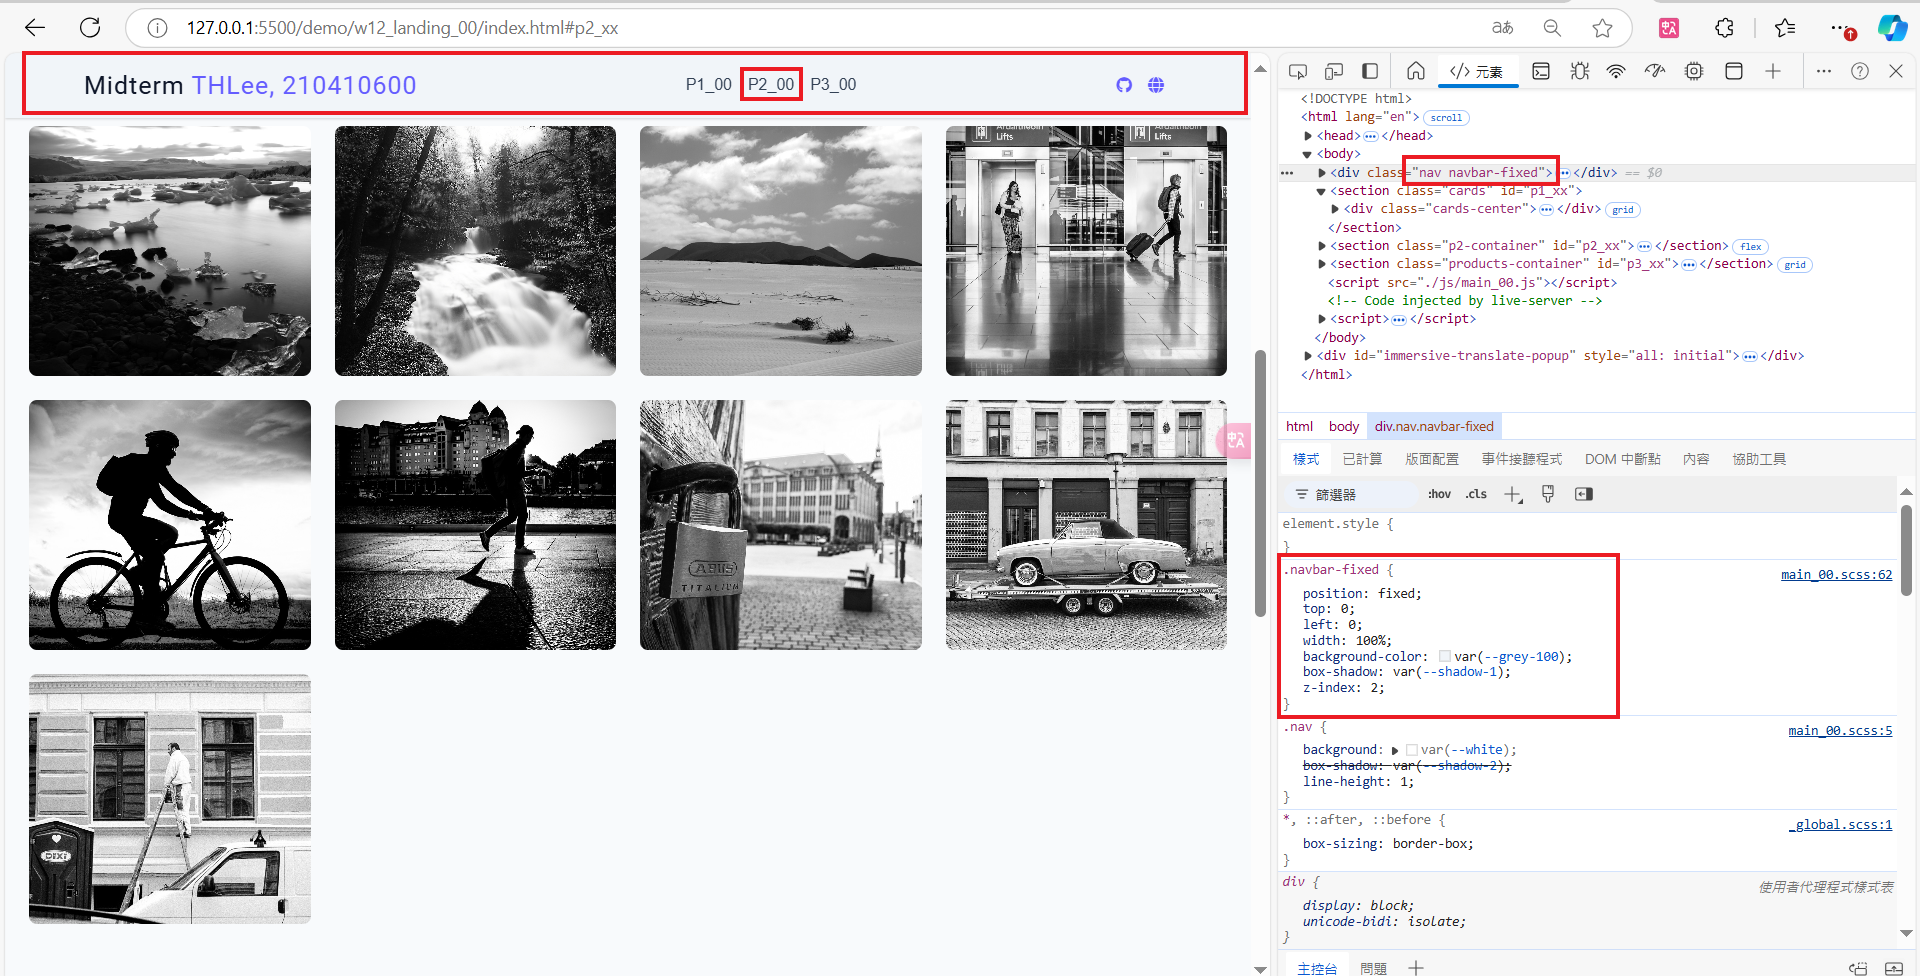
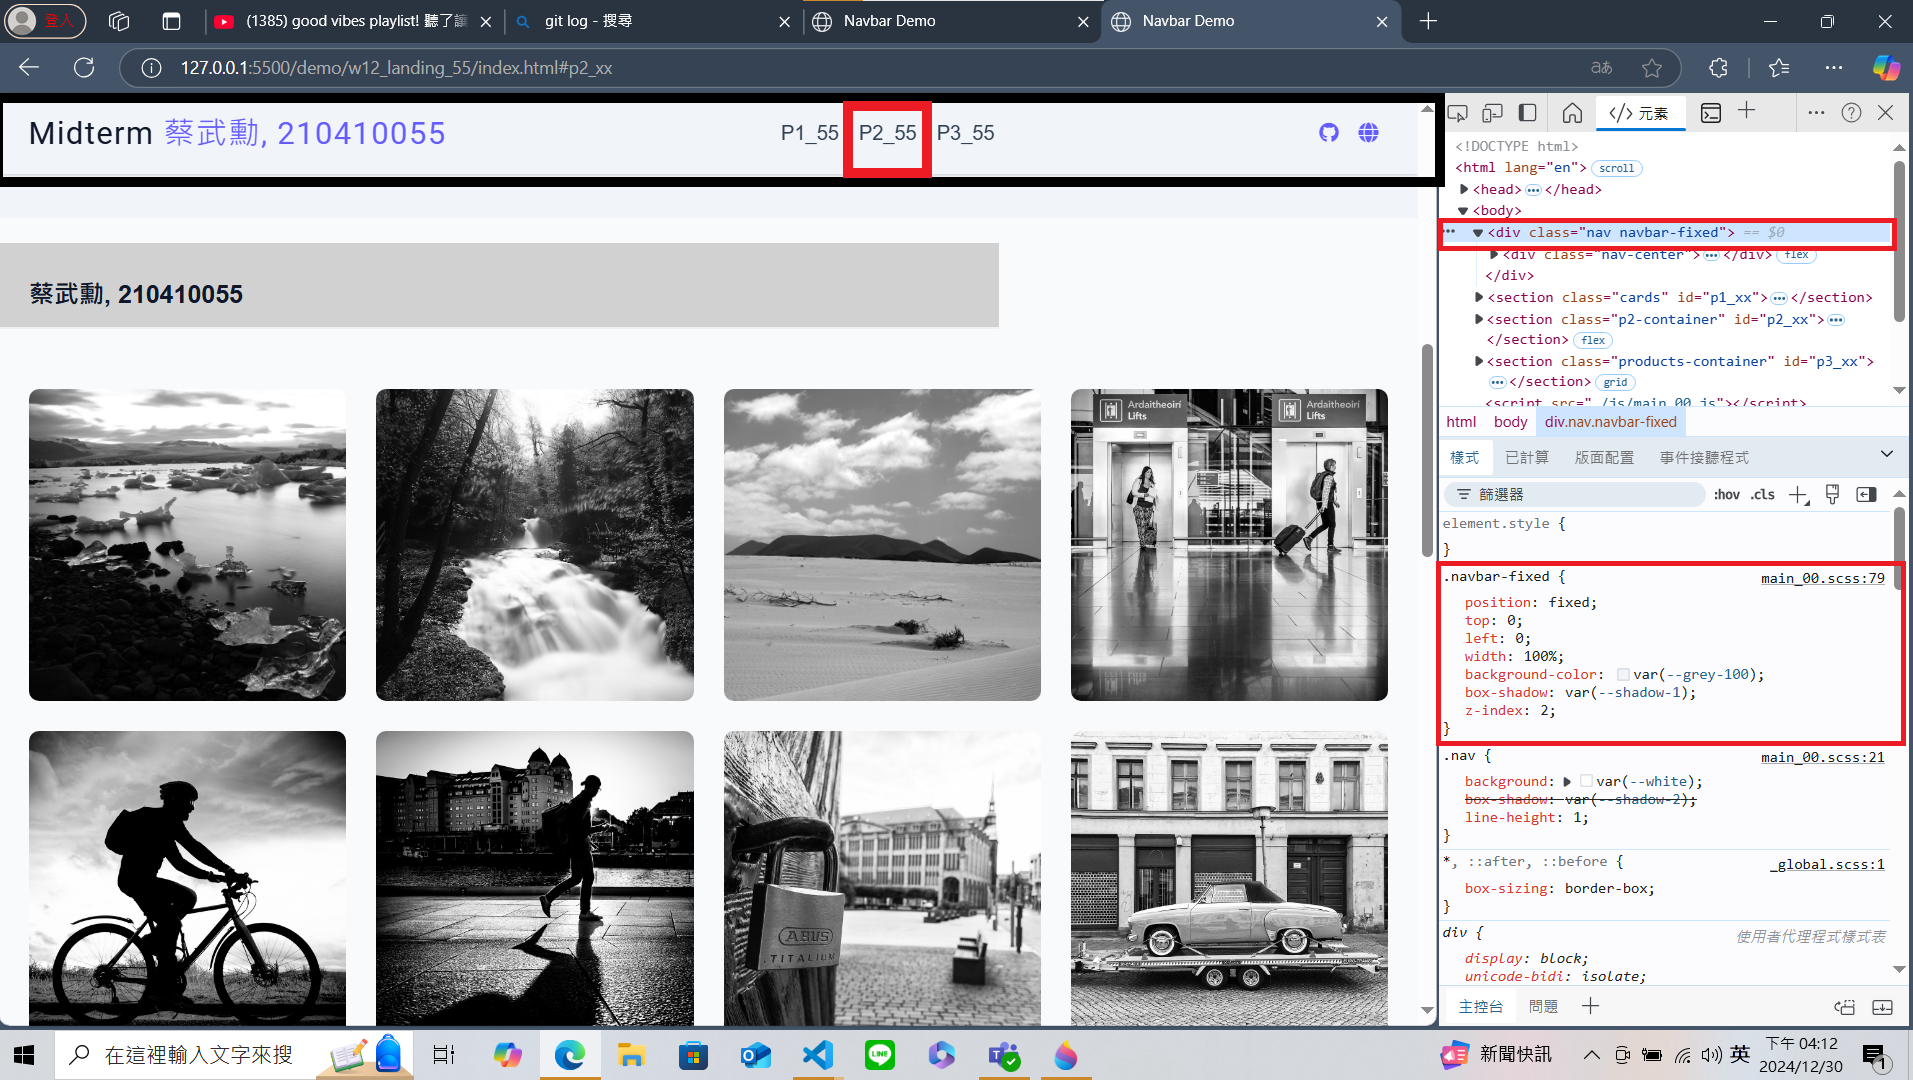
W12-P2: Embed p1_xx, p2_xx, p3_xx content into index.html, and make it to work correctly

diff --git a/demo/w12_landing_55/index.html b/demo/w12_landing_55/index.html
@@ -119,7 +119,7 @@
     </section>
 
     <section class="p2-container" id="p2_xx">
-        <p class="author">TsungHan Lee, 210410600</p>
+        <p class="author">蔡武勳, 210410055</p>
         <div class="image-container">
           <img src="./images/img1.jpg" alt="" />
           <img src="./images/img2.jpg" alt="" />
